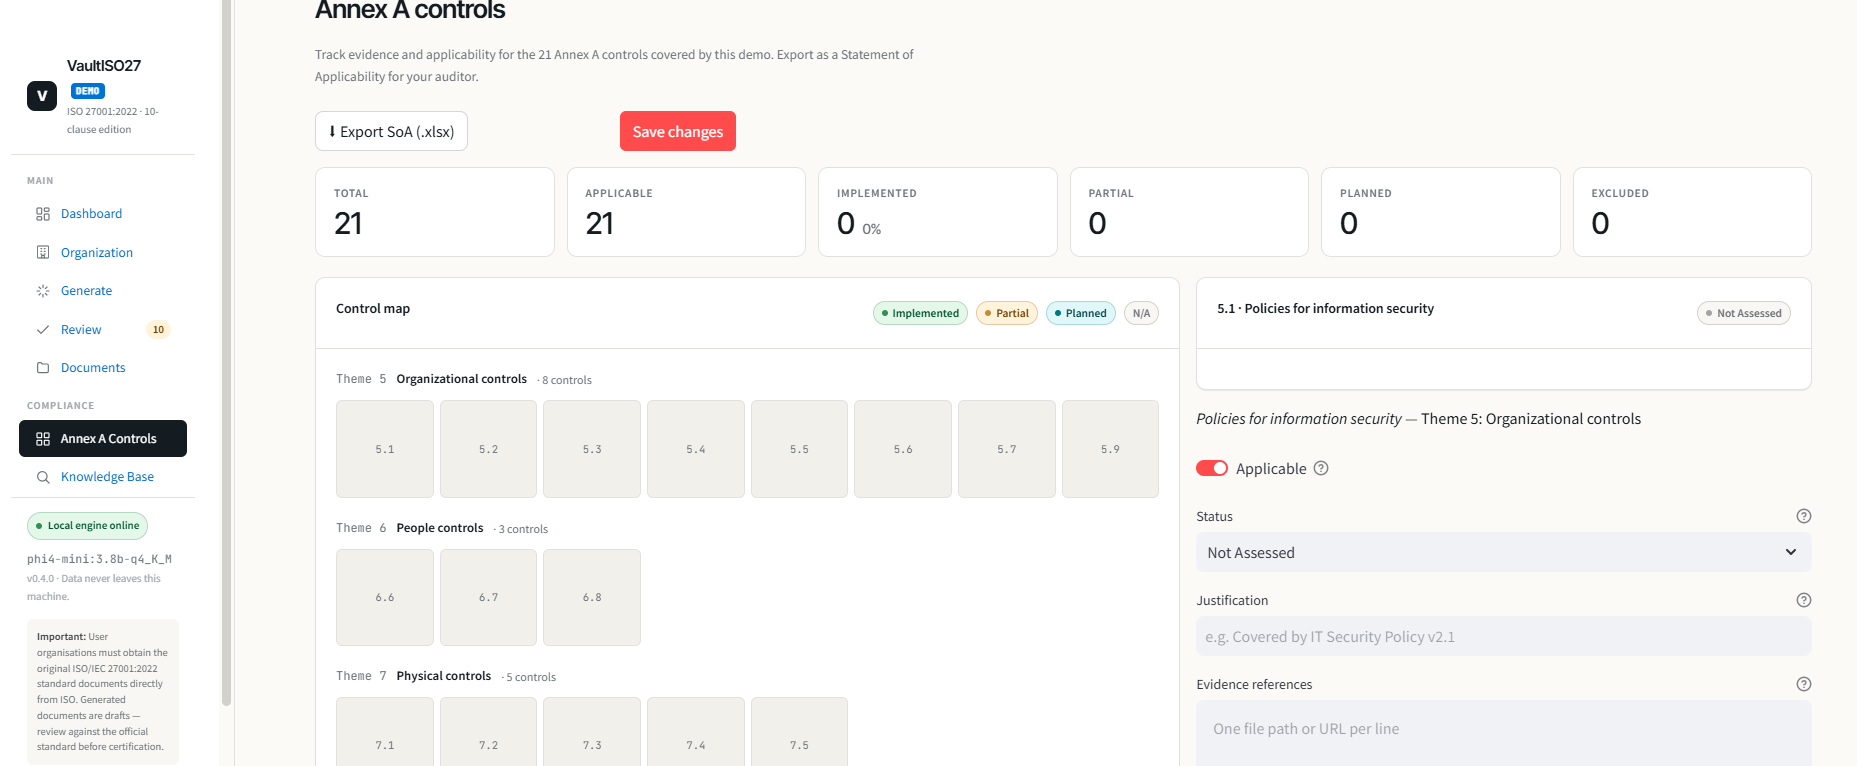
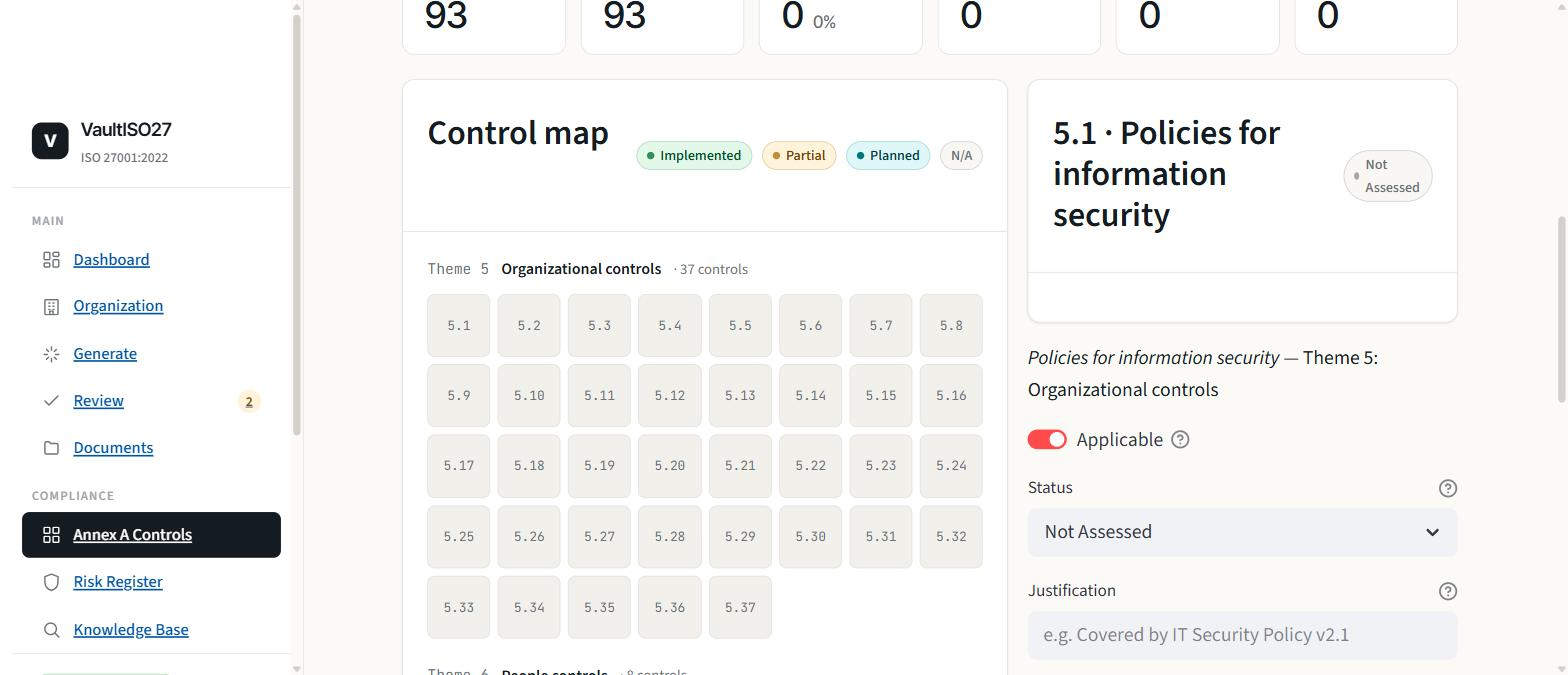
docs: refresh marketing site screenshots from live test run
Captured from a real end-to-end run: 10 clauses generated against a
fictional demo org (Nimbus Cybersecurity GmbH), 8 approved, 2 flagged
for revision after human review caught real prose defects the AI
Reviewer missed (repetition, one leaked-prompt-scaffolding artifact —
see outputs/*.status.json notes on this branch, not committed here).

Old screenshots were from a UI that no longer exists — this build has
a Plan/Do/Check/Act dashboard, a 93-control Annex A map by theme, and
a plain-language SoA explainer, none of which were in the prior
screenshots. Also fixed: URL bar said localhost:8502 (actual: 8501),
and captions overclaimed ("live log stream" when Generate's idle
state is a config panel, "PASS/FAIL/WARN" when this run was PASS-only
on the AI side with the interesting story being the human override).

Claude-Session: https://claude.ai/code/session_01JDJwzXuXjeyeJVftKi8QhX

diff --git a/docs/index.html b/docs/index.html
@@ -541,11 +541,11 @@
         <div class="dot dot-r"></div>
         <div class="dot dot-y"></div>
         <div class="dot dot-g"></div>
-        <div class="url-bar">localhost:8502 &nbsp;·&nbsp; VaultISO27 Demo</div>
+        <div class="url-bar">localhost:8501 &nbsp;·&nbsp; VaultISO27 Demo</div>
       </div>
-      <img src="screenshots/dashboard.png" alt="VaultISO27 dashboard — certification progress tracker showing 10 generated clauses">
+      <img src="screenshots/dashboard.png" alt="VaultISO27 dashboard — certification progress tracker with Plan/Do/Check/Act breakdown">
     </div>
-    <p class="screenshot-caption">10 clauses generated &nbsp;&nbsp;·&nbsp;&nbsp; AI Reviewer found issues &nbsp;&nbsp;·&nbsp;&nbsp; Ready for human review</p>
+    <p class="screenshot-caption">10 clauses generated &nbsp;&nbsp;·&nbsp;&nbsp; 8 approved, 2 flagged for revision &nbsp;&nbsp;·&nbsp;&nbsp; Human stays in the loop</p>
   </div>
 </div>
 
@@ -586,17 +586,17 @@
     <h2>Generation, review, and compliance tracking</h2>
     <div class="ss-grid">
       <div class="ss-card">
-        <img src="screenshots/generate.png" alt="Generate tab — live log stream">
-        <div class="ss-cap">Generate &nbsp;→&nbsp; live log during clause drafting</div>
+        <img src="screenshots/generate.png" alt="Generate tab — pick all documents or one specific clause">
+        <div class="ss-cap">Generate &nbsp;→&nbsp; run the full ISMS or one clause at a time</div>
       </div>
       <div class="ss-card">
-        <img src="screenshots/review.png" alt="Review tab — AI Reviewer findings with PASS/FAIL/WARN">
-        <div class="ss-cap">Review &nbsp;→&nbsp; AI Reviewer PASS / FAIL / WARN per ISO dimension</div>
+        <img src="screenshots/review.png" alt="Review tab — AI Reviewer findings, flagged for revision with human notes">
+        <div class="ss-cap">Review &nbsp;→&nbsp; AI Reviewer PASS per ISO dimension, human still caught and flagged this one</div>
       </div>
     </div>
     <div class="ss-full">
-      <img src="screenshots/annex_a.png" alt="Annex A controls evidence tracker">
-      <div class="ss-cap">Annex A Controls &nbsp;→&nbsp; 93-control evidence tracker, all 4 themes &nbsp;·&nbsp; Export Statement of Applicability to Excel</div>
+      <img src="screenshots/annex_a.png" alt="Annex A control map, grouped by theme">
+      <div class="ss-cap">Annex A Controls &nbsp;→&nbsp; 93-control map across all 4 themes &nbsp;·&nbsp; Export Statement of Applicability to Excel</div>
     </div>
   </div>
 </section>
